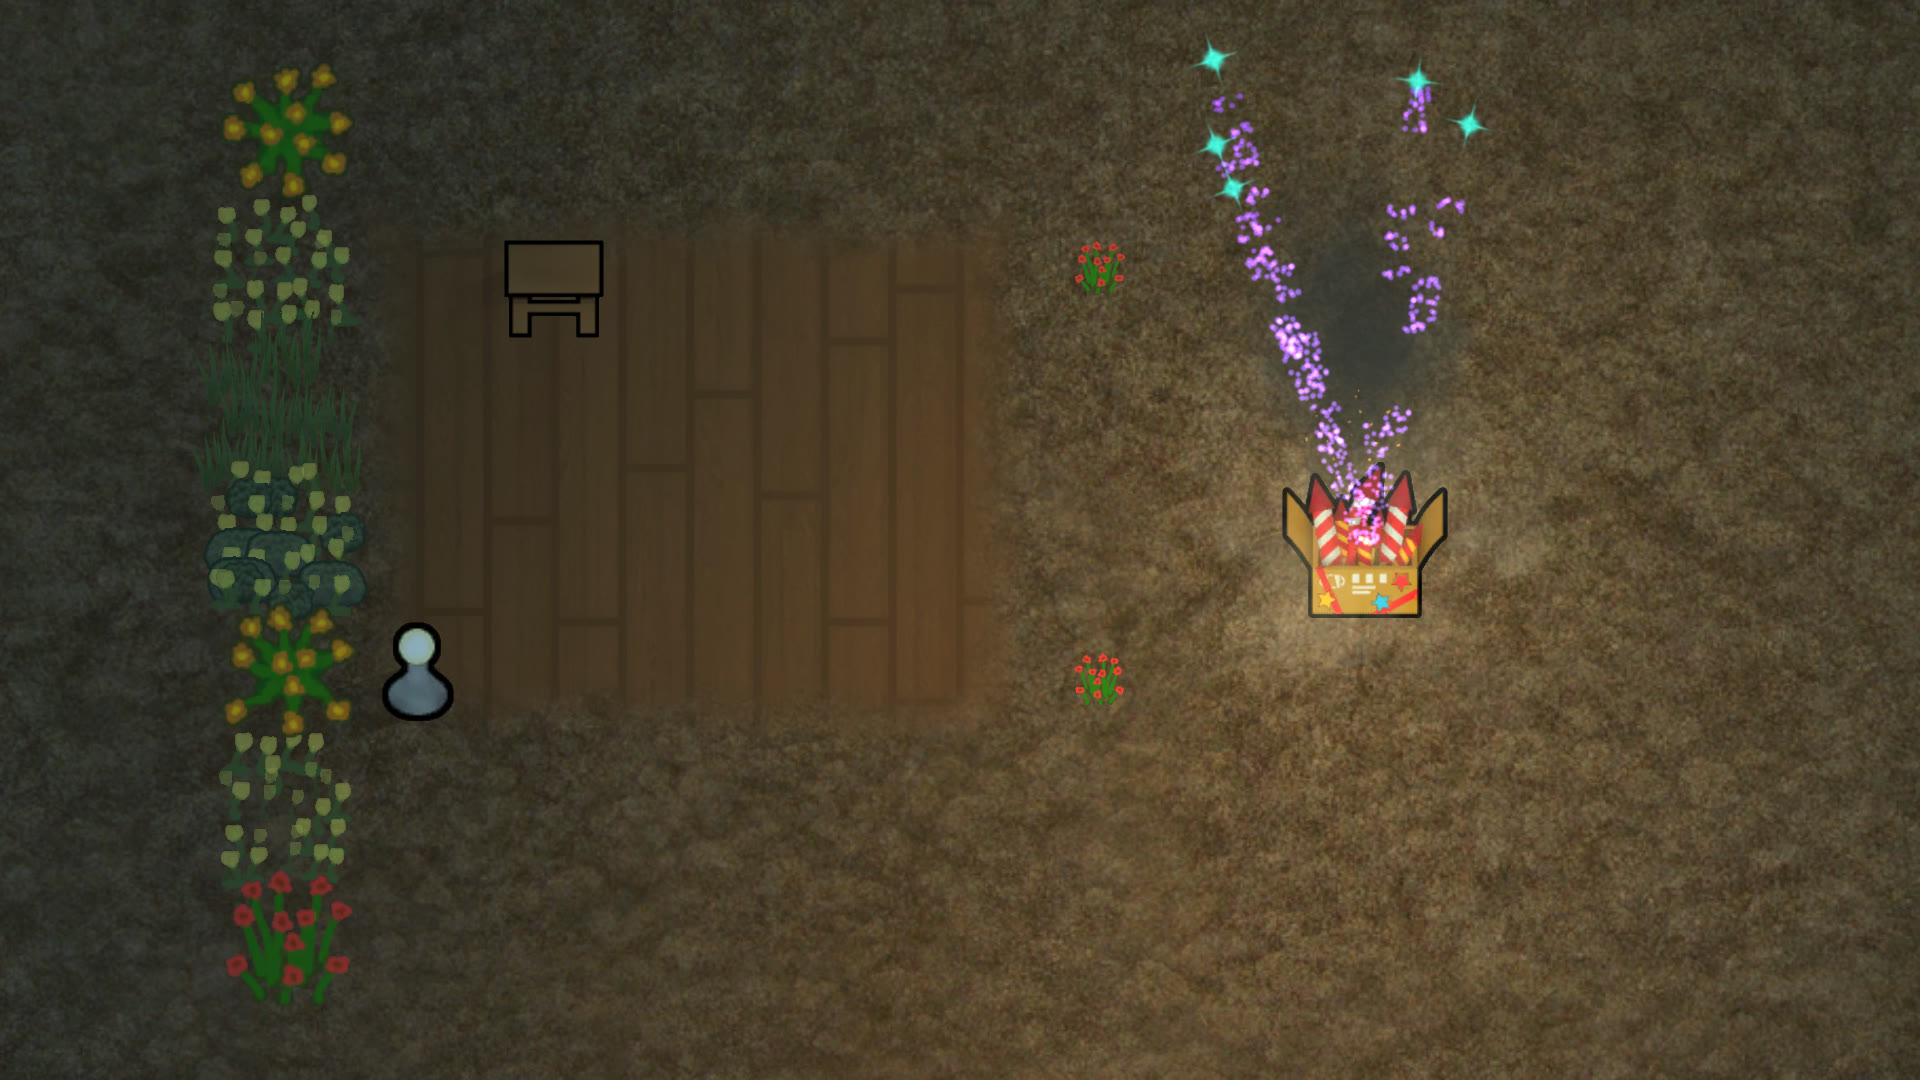
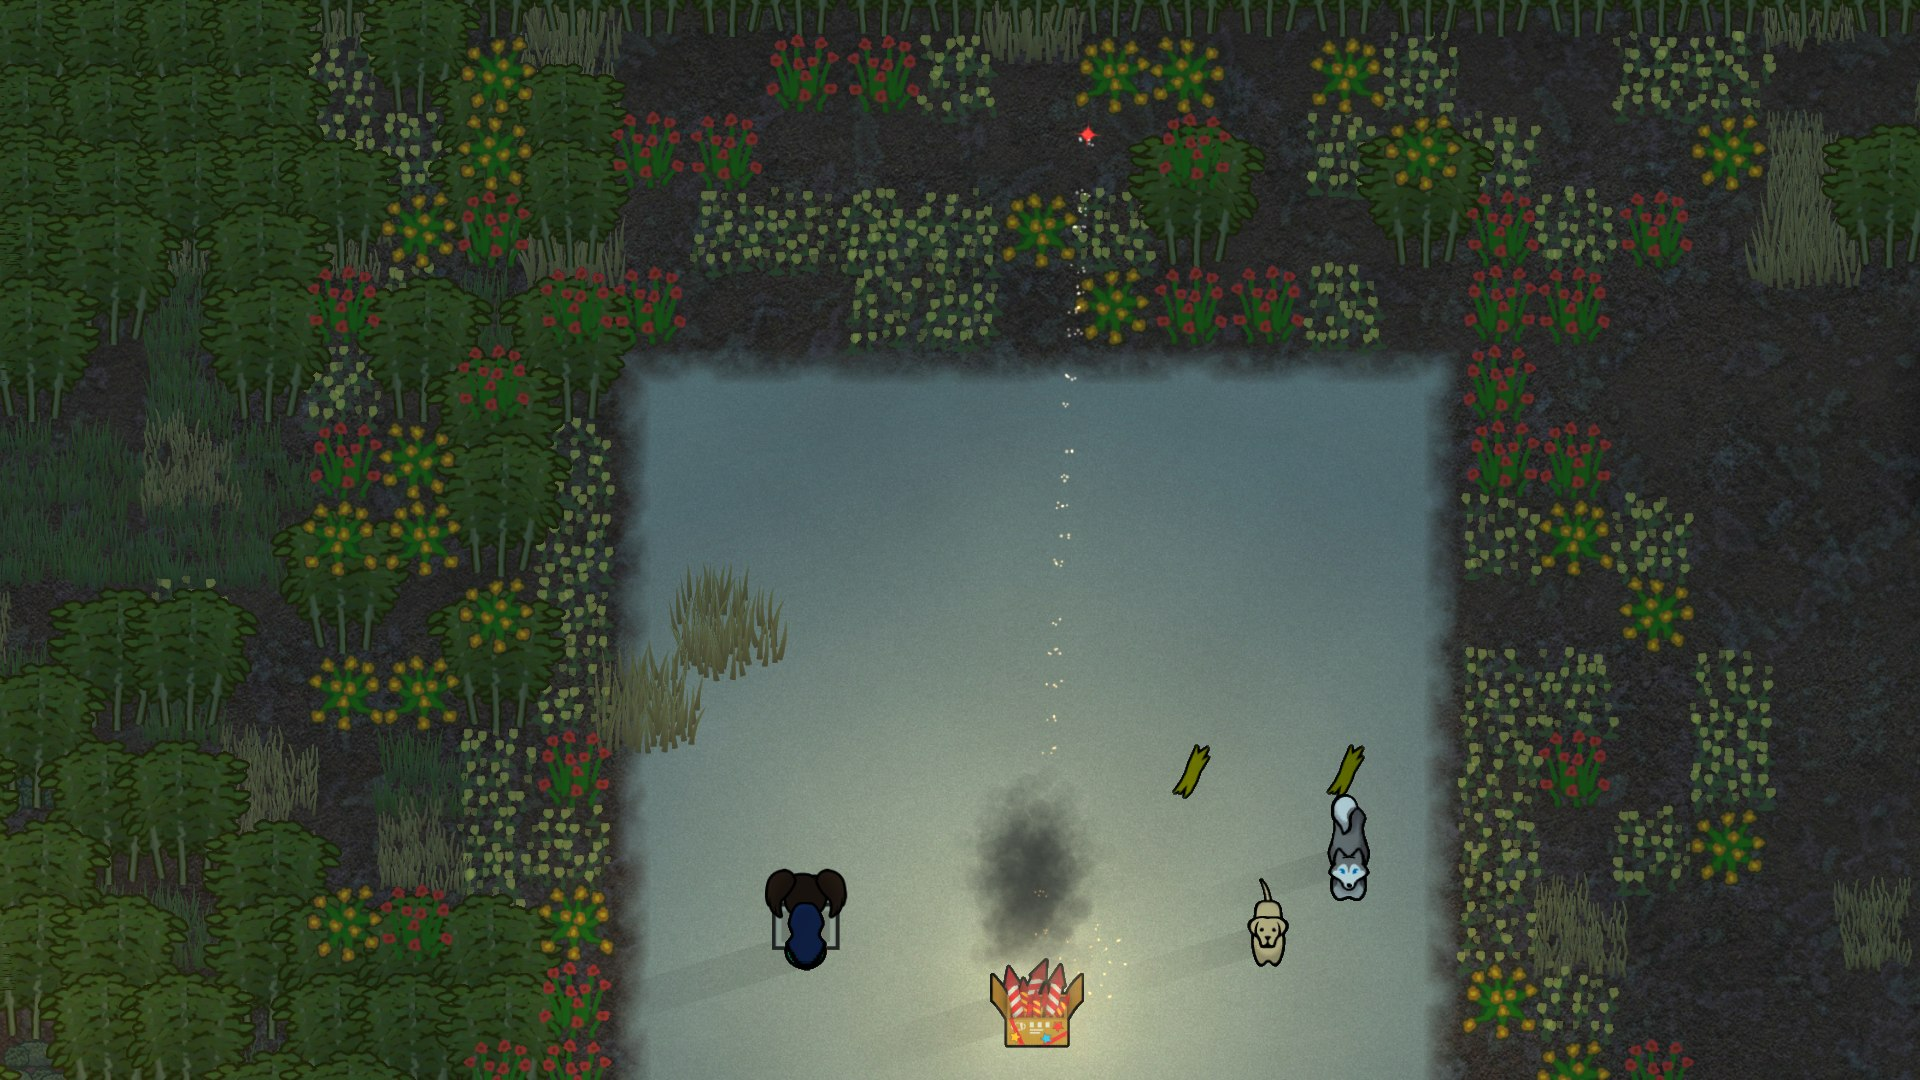
Firework Stand: gallery 2 candidate from ticket 462d, scene 5 refused again (zone paint and HUD), protocols read

diff --git a/STATUS.md b/STATUS.md
@@ -29,7 +29,7 @@ audit_revision: 60cf3715461f1d099dfdddb2d393961beb185ec6
 remaining:
   - audit 2026-10-11 (done -> playTests[1.0.0], vocabulary only, nothing lowered): old journal moved to docs/runs/STATUS-journal-to-2026-10-11.md, old `remaining` kept at its end.
   - shootGallery work (older detail, superseded by the 2026-10-25 line below): feature 14 rewritten 2026-10-18 (d83b348) for `calm-zone` (cream square, stand at (200, 183), Nelim protagonist with Shogun and Yuki, no Miel, no deck; camera framed before the salvo, pictures at fixed ticks from the fuse and the light, game paused before the shutter; the old plan and the four candidates of 2026-10-13 judged weak: Nelim absent, brown ground). Ticket 20261018-000740-695-db97 (old unscored feature) ran 2 of 6 (1 to 4 failed: kind "Labrador" does not exist, now "LabradorRetriever"; 5 and 6 passed, 6 menu opens); ticket 20261019-195634-985-888d (scored scenes 1 to 5, no staging error expected after cdbf and d9ef failed at staging) queued, evidence to Tests/Pickle/Inbox/2026-10-19-calm-zone; waiting on NPT (retest of Show Hair Under Stuff with the seed, scene 3 hat; if the hair clips, take the Tuque off) and on Virginie (re-subscribe 3790129900); then open every picture, redo the weak ones, only then candidates. The 05 pane no longer waits on NPT: the hide steps (resource readout, alerts, learning helper, tooltips, colonist bar, labels) exist; whether calm-zone carries zone paint is read off the picture.
-  - gallery 2026-10-25 (run on 70246a7, green 4 of 4, line in docs/runs/history.md): candidates `Art/Gallery/` 1-candidate-the-fuse, 3-candidate-the-ground-lit, 4-candidate-the-burst (scenes 1, 3, 4, opened by the session, kept); 2-candidate-the-launch is the old 2026-10-13 picture kept as placeholder (scene 2 not replayed since 888d refused it); scene 5 refused (zone paint and HUD cover the frame), NPT asked 2026-10-25 for a step masking zone paint and the main button bar. NPT answered (step `the painted zones are hidden` added to scene 5, df27c38); scenes 2 and 5 filed as ticket 20261025-154151-366-462d (evidence to Tests/Pickle/Inbox/calm-zone-2-5-df27c38). Then Virginie accepts or refuses the candidates.
+  - gallery 2026-10-30 (lines in docs/runs/history.md): candidates `Art/Gallery/` 1-candidate-the-fuse, 2-candidate-the-launch (new, ticket 462d scene 2: rocket trail climbing, smoke and sparks at the stand, both dogs, Nelim from behind), 3-candidate-the-ground-lit, 4-candidate-the-burst, all opened by the session, kept. Scene 5 refused again on 462d (green, but white zone rectangles, bottom bar, right-hand HUD and inspect pane still cover the frame: the step `the painted zones are hidden` of df27c38 did not take); NPT asked 2026-10-30. Then Virginie accepts or refuses the four candidates; slot 5 (reload) stays empty until scene 5 is clean.
   - replay tickets 94cf (09 english) and 72d6 (07 and 09 french) green on 60e8126 (history.md, 2026-10-25): feature 09 stale-scenario and french feature 07 reds of 2026-09-28 closed. Evidence/ holds only the without-Ideology proof (RELEASE.md).
   - 8.d, 8.k: UI captures (French, without Ideology, Architect menu) opened by the session 2026-10-17, all fine (docs/runs/history.md, line of 2026-10-17). Left: films of the final build, light and smoke images (docs/OWNER-CHECKS.md, owner's look not required); fuse smoke (capture 7) validated as a principle, the gallery image has to show it larger.
   - at prepareRelease (AUDIT.md 11.k, AGENTS.md 9a and 9b, rule 2026-10-18): gameplay Pickle steps of the mod (already in `Tests/Pickle/Source/FireworkStandSteps.cs`, to list in a `steps.md` catalogue) and the stand's entry in `GALLERY-PROPS.md` (`FS_FireworkStand`, packageId `nelim.fireworkstand`, Workshop id 3806767445, "seen in a capture" once a gallery image is accepted); no apparel or hairstyle of its own.
@@ -41,7 +41,7 @@ remaining:
 session:      local_7548e3c6-c031-4692-8524-0c2d38a1974a
 updated:      2026-10-25
 code_review_sha: 341107f159930c986a2e99bf573914605851767d
-protocols_read_sha: 459f0376dce9e5bb718362cfcaccac1ed681e361
+protocols_read_sha: af740f581512fb2b0d8180812d83916db48bf0c1
 ---
 # Firework Stand: status
 

diff --git a/docs/runs/history.md b/docs/runs/history.md
@@ -25,3 +25,4 @@
 2026-10-19 888d gallery 1 to 5 calm-zone (staging fine this time): 1 of 5. Scene 2 green but picture refused (rocket a thin trail at the top, stand on the bottom edge, Nelim seen from behind). 1, 3, 4 failed "the cell already holds PlantPot" (the decor step refuses a plant on a pot cell; plants now on the ground, pots asked of NPT), 5 failed "No brow type BrowThick" (now BrowSquare). Folder deleted 2026-10-21.
 2026-10-23 94cf feature 09 english on 60e8126: passed 1 of 1 ("the timer, the light and the count survive a save and a reload"); 72d6 features 07 and 09 french on 60e8126: passed 4 of 4 (the colonist-took-Play_Horseshoes failure of 2026-09-28 gone). Folders deleted 2026-10-25, proof is this line.
 2026-10-23 calm-zone gallery 1, 3, 4, 5 on 70246a7 (pots with plants through StageDecor): green 4 of 4, all pictures opened 2026-10-25. Kept as candidates: 01 (fuse smoke, Nelim in red, Shogun facing), 03 (warm light on the square, Tuque, both dogs), 04 (burst over the bamboo, roses in pots). Refused: 05 (white zone paint rectangles and the HUD still cover the frame: NPT). Scene 2 not in this run (old candidate kept as placeholder). Folder deleted 2026-10-25.
+2026-10-30 462d calm-zone gallery 2 and 5 on df27c38: green 2 of 2 (exitReason passed), both pictures opened. Kept: 02 (rocket trail climbing over the square, smoke and sparks at the stand, Shogun and Yuki, Nelim from behind) as 2-candidate-the-launch. Refused: 05 (white zone rectangles, main button bar, right-hand HUD still in frame; the zone-hiding step had no visible effect): NPT. Folder deleted 2026-10-30.
